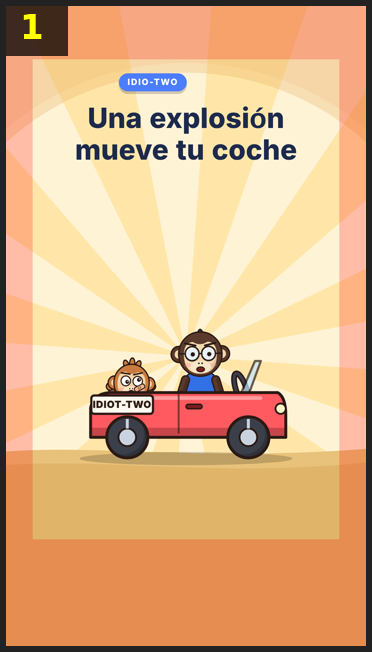
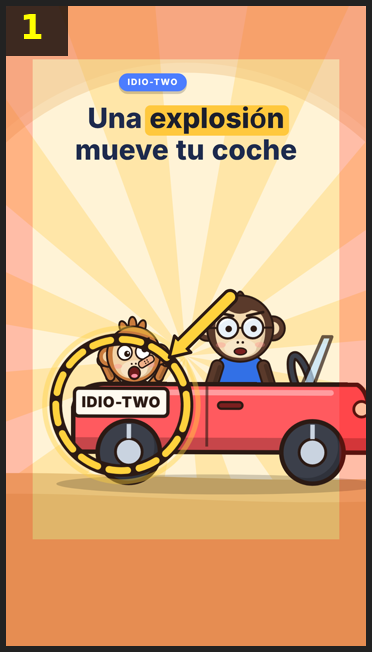
Motores: plate reads IDIO-TWO
Claude-Session: https://claude.ai/code/session_01CCYL4pfB5svmsfTYwXD8rF

diff --git a/videos/motores/world.ts b/videos/motores/world.ts
@@ -413,7 +413,7 @@ function moCar(id: string, x: number, y: number, s = 1) {
     <g id="${id}-w2"><g transform="translate(170 40)"><circle r="56" fill="#3b3f4a" stroke="${MO.o}" stroke-width="${MO_SW}"/><circle r="24" fill="${MO.steel}" stroke="${MO.o}" stroke-width="5"/><rect x="-4" y="-50" width="8" height="26" fill="${MO.steel}"/></g></g></g></g>`;
 }
 // the Idio-two convertible: Tico (tid) driving, Dota (did) co-pilot on the far seat, plate on the back. Faces right.
-function moCarIdio(id: string, tid: string, did: string, x: number, y: number, s = 1, plate = 'IDIOT-TWO') {
+function moCarIdio(id: string, tid: string, did: string, x: number, y: number, s = 1, plate = 'IDIO-TWO') {
   const O = MO.o, wheel = (wid: string, wx: number) => `<g id="${id}-${wid}"><g transform="translate(${wx} 40)">${moVol((a) => `<circle r="56" ${a}/>`, '#3b3f4a', { sx: 10, sy: 10 })}<circle r="24" fill="${MO.steel}" stroke="${O}" stroke-width="5"/><rect x="-4" y="-50" width="8" height="26" fill="${MO.steel}"/></g></g>`;
   return `<g id="${id}"><g transform="translate(${x} ${y}) scale(${s})">
     <ellipse cx="0" cy="98" rx="290" ry="18" fill="#000" opacity="0.18"/>
